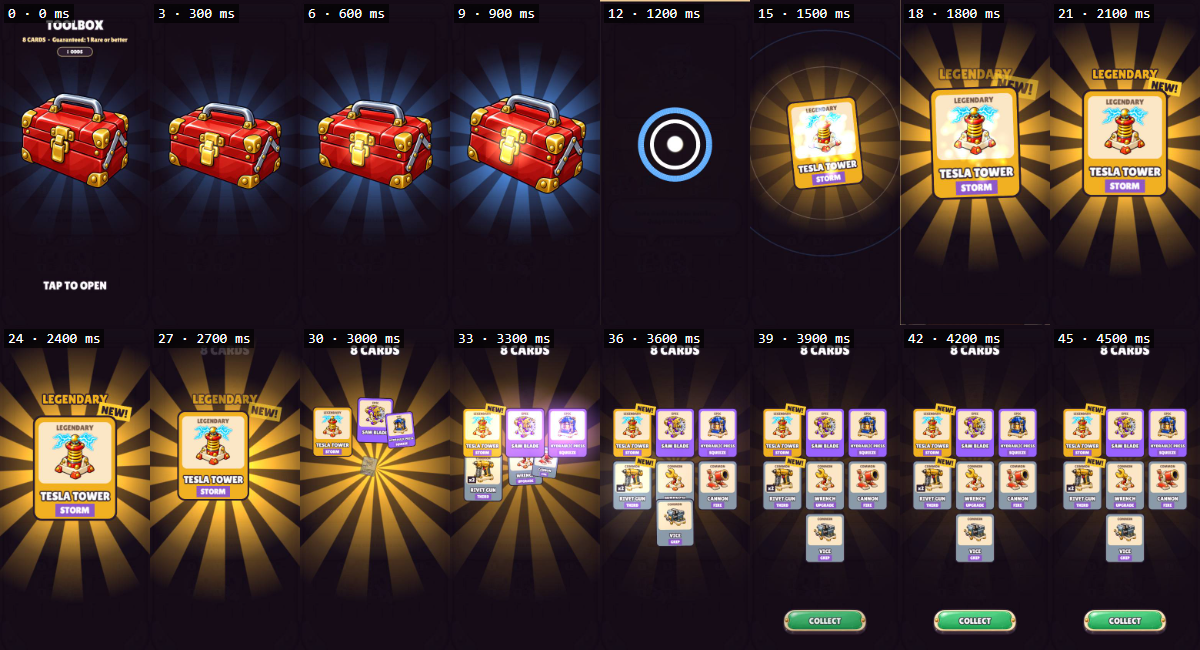
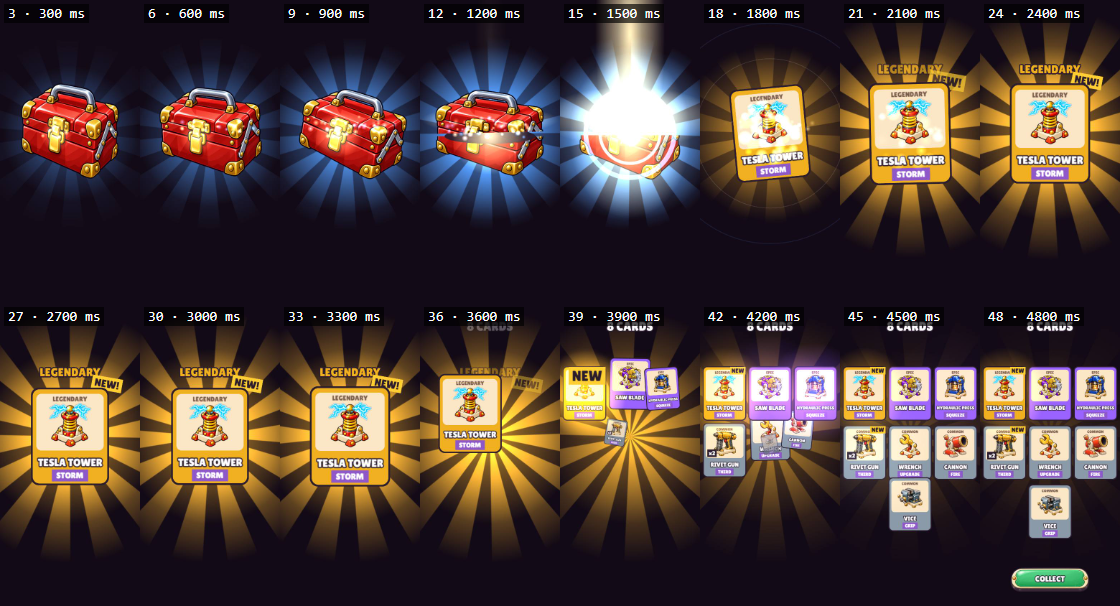
Crate opening V2 review fixes: harder wind-up + rim sparks + charge cue, visible lid pop with light column, bigger grid with inside NEW tags and hero glow, rarity-scaled hero hold + Legendary sting, opaque backdrop; keep contact sheets only

diff --git a/src/game/ui/crateOpenV2.ts b/src/game/ui/crateOpenV2.ts
@@ -47,14 +47,14 @@ export function presentCrateV2(scene: GameScene, kind: CrateKind, cards: CrateCa
   const units = cards.map((cd) => UNITS.find((u) => u.id === cd.unit)!);
   const hero = pickHero(cards.map((cd, i) => ({ rarity: units[i].rarity, isNew: cd.isNew, count: cd.count })));
   const order = summaryOrder(units.map((u) => ({ rarity: u.rarity })), hero); // slot k holds card order[k]
-  const grid = gridLayout3(n, W, 250, H - 270);
+  const grid = gridLayout3(n, W, 235, H - 255);
   const heroRc = RARITY_COLOR[units[hero].rarity], heroTier = TIER[units[hero].rarity];
   let shown: CrateKind = from ?? kind;
 
   // ---- the full-screen stage ----
   const c = scene.add.container(0, 0).setDepth(100);
   scene.modal = c;
-  const dim = scene.add.rectangle(W / 2, H / 2, W, H, 0x120a16, 0.985).setInteractive();
+  const dim = scene.add.rectangle(W / 2, H / 2, W, H, 0x120a16, 1).setInteractive(); // opaque: the game screen underneath must not ghost through
   c.add(dim);
   c.setAlpha(0);
   scene.tweens.add({ targets: c, alpha: 1, duration: 200, ease: 'Quad.Out' });
@@ -80,11 +80,14 @@ export function presentCrateV2(scene: GameScene, kind: CrateKind, cards: CrateCa
   const whole = scene.fitVisible(scene.add.image(0, 0, CRATE[shown].key), CRATE_SIZE);
   const geoOf = (k: CrateKind) => {
     const b = scene.visBounds(CRATE[k].key), s = CRATE_SIZE / Math.max(b.w, b.h);
-    return { lx: (CRATE[k].latch[0] - 0.5) * b.w * s, ly: (CRATE[k].latch[1] - 0.5) * b.h * s };
+    return { lx: (CRATE[k].latch[0] - 0.5) * b.w * s, ly: (CRATE[k].latch[1] - 0.5) * b.h * s, sy: (CRATE[k].seam - 0.5) * b.h * s, b, s };
   };
+  // the pop beat: the picture is cut at the seam; the lid lifts, light shoots out of the mouth (built once, on entering the beat)
+  let lid: Phaser.GameObjects.Container | null = null, mouth: Phaser.GameObjects.Image[] = [], cavity: Phaser.GameObjects.Ellipse | null = null, seamY = 0;
+  const shaft = scene.add.image(0, 0, 'omm_glow').setTint(0xfff2b0).setBlendMode(Phaser.BlendModes.ADD).setAlpha(0);
   const latchGlow = scene.add.image(geoOf(shown).lx, geoOf(shown).ly, 'omm_glow').setTint(0xfff2b0).setBlendMode(Phaser.BlendModes.ADD).setDisplaySize(140, 140).setAlpha(0);
   box.add([whole, latchGlow]);
-  stage.add([rays, glow, box]);
+  stage.add([rays, glow, box, shaft]);
   const tapTxt = scene.add.text(W / 2, H - 190, 'TAP TO OPEN', { fontFamily: FONT, fontSize: '54px', color: '#ffffff', stroke: '#2b1d2e', strokeThickness: 9 }).setOrigin(0.5);
   const tapLoop = scene.tweens.add({ targets: tapTxt, scale: { from: 0.94, to: 1.06 }, duration: 600, yoyo: true, repeat: -1, ease: 'Sine.InOut' });
   const idle = calm ? null : scene.tweens.add({ targets: box, y: { from: 0, to: -12 }, duration: 1000, yoyo: true, repeat: -1, ease: 'Sine.InOut' });
@@ -138,6 +141,19 @@ export function presentCrateV2(scene: GameScene, kind: CrateKind, cards: CrateCa
       scene.tweens.add({ targets: o, r, a: 0, duration: 520, ease: 'Quad.Out', onUpdate: () => g.clear().lineStyle(w * o.a + 1, col, o.a).strokeCircle(0, 0, o.r), onComplete: () => g.destroy() });
     }
   };
+  // rim sparks fly off the crate's top edge while it charges; the rate climbs with the charge (0..1)
+  let sparkDebt = 0, lastDt = 0;
+  const rimSparks = (dt: number, charge: number) => {
+    if (calm) return;
+    sparkDebt += (dt / 1000) * lerp(30, 150, charge);
+    while (sparkDebt >= 1) {
+      sparkDebt -= 1;
+      const sz = Phaser.Math.Between(16, 34), g = geoOf(shown);
+      const img = scene.add.image(W / 2 + Phaser.Math.FloatBetween(-0.42, 0.42) * CRATE_SIZE, HERO_Y + box.y + g.sy + Phaser.Math.Between(-30, 20), 'omm_glow').setBlendMode(Phaser.BlendModes.ADD).setTint(Phaser.Math.RND.pick([0xffffff, 0xfff2b0, CRATE[shown].glow])).setDisplaySize(sz, sz);
+      c.add(img);
+      sparks.push({ img, vx: Phaser.Math.FloatBetween(-120, 120), vy: -Phaser.Math.FloatBetween(240, 560), age: 0, life: Phaser.Math.Between(380, 700) });
+    }
+  };
   const stepSparks = (dt: number) => {
     for (let i = sparks.length - 1; i >= 0; i--) {
       const s = sparks[i];
@@ -188,16 +204,20 @@ export function presentCrateV2(scene: GameScene, kind: CrateKind, cards: CrateCa
       stopTw(tapLoop);
       scene.tweens.add({ targets: [hdr, tapTxt], alpha: 0, duration: 200 });
       box.setPosition(0, 0);
+      sfx.charge?.();
+    } else if (id === 'pop') {
+      once('pop', openLid);
     } else if (id === 'flash') {
       once('flash', () => {
-        box.setVisible(false);
-        stage.setAlpha(0);
         burst();
         sfx.chestOpen?.();
         scene.shake('bomb');
       });
     } else if (id === 'hero') {
-      once('hero', () => sfx.rarityHit(heroTier));
+      once('hero', () => {
+        sfx.rarityHit(heroTier);
+        if (heroTier >= 3) sfx.sting?.();
+      });
     } else if (id === 'gather') {
       scene.tweens.add({ targets: [ribbon, ...(heroNew ? [heroNew] : [])], alpha: 0, duration: 160 });
       hdr.each((o: Phaser.GameObjects.GameObject) => o !== titleTxt && o !== sub && (o as Phaser.GameObjects.Container).setVisible(false)); // the ODDS pill is a closed-crate thing
@@ -210,20 +230,42 @@ export function presentCrateV2(scene: GameScene, kind: CrateKind, cards: CrateCa
     }
   }
 
+  function openLid() {
+    const g = geoOf(shown), key = CRATE[shown].key;
+    seamY = g.sy;
+    const cut = g.b.y + g.b.h * CRATE[shown].seam, srcH = scene.textures.get(key).getSourceImage().height;
+    const mk = (cropY: number, cropH: number) => scene.fitVisible(scene.add.image(0, 0, key), CRATE_SIZE).setCrop(0, cropY, scene.textures.get(key).getSourceImage().width, cropH);
+    whole.setVisible(false);
+    latchGlow.setVisible(false);
+    const lower = mk(cut, srcH - cut), upper = mk(0, cut).setPosition(0, -g.sy);
+    lid = scene.add.container(0, g.sy, [upper]);
+    cavity = scene.add.ellipse(0, g.sy, g.b.w * g.s * 0.84, 84, 0x2b1d2e);
+    const seamGlow = scene.add.image(0, g.sy, 'omm_glow').setTint(0xfff2b0).setBlendMode(Phaser.BlendModes.ADD).setDisplaySize(CRATE_SIZE * 1.25, 150);
+    const beam = scene.add.image(0, g.sy - 90, 'omm_glow').setTint(0xffe9a0).setBlendMode(Phaser.BlendModes.ADD).setDisplaySize(CRATE_SIZE * 0.7, 420);
+    mouth = [seamGlow, beam];
+    box.add([lower, cavity, beam, seamGlow, lid]);
+    shaft.setPosition(0, g.sy - 520);
+    sfx.chestOpen?.();
+  }
+
   const stopTw = (tw: Phaser.Tweens.Tween) => {
     tw.stop();
   };
 
   function applyBeat(id: BeatId, p: number, ms: number) {
     if (id === 'anticipation') {
-      const e = outQuad(p);
-      box.setScale(1 + 0.05 * e, 1 - 0.09 * e).setY(14 * e);
-      glow.setAlpha(lerp(0.35, 0.5, e));
-      latchGlow.setAlpha(0.5 * e);
+      // a hard dip (1 -> 0.85 tall, 1.1 wide) over the first 60 %, then a recoil up and slightly tall to wind the spring
+      const d = outQuad(clamp01(p / 0.6)), r = outBack(clamp01((p - 0.6) / 0.4));
+      const sx = p < 0.6 ? lerp(1, 1.1, d) : lerp(1.1, 0.97, r), sy = p < 0.6 ? lerp(1, 0.85, d) : lerp(0.85, 1.06, r), y = p < 0.6 ? 24 * d : lerp(24, -10, r);
+      box.setScale(sx, sy).setY(y);
+      glow.setAlpha(lerp(0.35, 0.55, outQuad(p)));
+      latchGlow.setAlpha(0.7 * outQuad(p)).setDisplaySize(lerp(100, 180, p), lerp(100, 180, p));
+      rimSparks(lastDt, p * 0.3);
     } else if (id === 'shake') {
       const amp = lerp(OPEN_V2.shakeDeg[0], OPEN_V2.shakeDeg[1], p * p);
       const ph = Math.PI * 2 * (2 * p + 5 * p * p);
-      box.setAngle(calm ? 0 : amp * Math.sin(ph)).setScale(lerp(1.05, 1.1, p), lerp(0.91, 1.08, p)).setPosition(calm ? 0 : amp * 1.4 * Math.sin(ph * 1.3), lerp(14, -6, p));
+      box.setAngle(calm ? 0 : amp * Math.sin(ph)).setScale(lerp(0.97, 1.08, p), lerp(1.06, 0.92, p)).setPosition(calm ? 0 : amp * 1.8 * Math.sin(ph * 1.3), lerp(-10, 6, p));
+      rimSparks(lastDt, 0.3 + 0.7 * p);
       glow.setAlpha(lerp(0.5, 1, p)).setDisplaySize(lerp(700, 900, p), lerp(700, 900, p));
       rays.setAlpha(lerp(0.18, 0.75, p));
       latchGlow.setAlpha(lerp(0.5, 1, p)).setDisplaySize(lerp(140, 300, p), lerp(140, 300, p));
@@ -236,8 +278,20 @@ export function presentCrateV2(scene: GameScene, kind: CrateKind, cards: CrateCa
         }
       }
       if (from && shown !== kind && p >= 0.55) once('swap', swapToKind);
+    } else if (id === 'pop') {
+      // the lid flies up and tilts, a column of light stands out of the mouth, the body springs back from its squash
+      const e = outBack(p);
+      box.setAngle(0).setPosition(0, lerp(6, 0, p)).setScale(lerp(1.08, 1, e), lerp(0.92, 1.04, outQuad(p)));
+      lid?.setPosition(0, seamY - 170 * e).setAngle(-28 * outQuad(p)).setAlpha(1 - clamp01((p - 0.7) / 0.3));
+      cavity?.setAlpha(1 - p);
+      mouth.forEach((m, i) => m.setAlpha(1).setDisplaySize(CRATE_SIZE * (i ? 1.25 + p * 0.5 : 0.7 + p * 0.5), i ? 150 + p * 150 : 420 + p * 400));
+      shaft.setAlpha(clamp01(p * 3)).setDisplaySize(lerp(160, 360, p), lerp(500, 1500, outQuad(p)));
+      glow.setAlpha(lerp(1, 1.4, p));
+      rays.setAlpha(lerp(0.75, 1, p));
+      rimSparks(lastDt, 1);
     } else if (id === 'flash') {
       flashRect.setAlpha(p < 0.4 ? 1 : 1 - (p - 0.4) / 0.6);
+      if (p >= 0.3) once('hideCrate', () => (box.setVisible(false), stage.setAlpha(0)));
       heroGlow.setAlpha(0.6 * p);
     } else if (id === 'hero') {
       const card = built[hero].card, e = outBack(p);
@@ -276,11 +330,17 @@ export function presentCrateV2(scene: GameScene, kind: CrateKind, cards: CrateCa
     b.card.setPosition(slot.x, slot.y).setScale(grid.scale).setAngle(0).setAlpha(1);
     const hot = cd.isNew || b.tier >= 1;
     if (hot) pingAt(slot.x, slot.y, b.rc, grid.cw * 1.9);
+    if (ci === hero) {
+      // the best card stays findable: a standing rarity glow behind its slot
+      const hg = scene.add.image(slot.x, slot.y, 'omm_glow').setTint(heroRc).setBlendMode(Phaser.BlendModes.ADD).setDisplaySize(grid.cw * 1.9, grid.ch * 1.7).setAlpha(0.75);
+      c.add(hg);
+      c.moveTo(hg, c.getIndex(b.card));
+    }
     if (b.tier >= 1) sfx.rarityHit(b.tier);
     else sfx.star?.(Math.min(2, k));
     if (!calm) scene.tweens.add({ targets: b.card, scale: { from: grid.scale * 1.1, to: grid.scale }, duration: 160, ease: 'Back.Out' });
     if (cd.isNew) {
-      const st = scene.add.text(slot.x + grid.cw * 0.33, slot.y - grid.ch * 0.47, 'NEW!', { fontFamily: FONT, fontSize: `${Math.round(30 * grid.scale)}px`, color: '#2b1d2e', backgroundColor: '#ffcf33', padding: { x: 9, y: 2 } }).setOrigin(0.5).setAngle(10);
+      const st = scene.add.text(slot.x + grid.cw / 2 - 4, slot.y - grid.ch / 2 + 4, 'NEW', { fontFamily: FONT, fontSize: `${Math.round(24 * grid.scale)}px`, color: '#2b1d2e', backgroundColor: '#ffcf33', padding: { x: 7, y: 1 } }).setOrigin(1, 0); // inside the card's top-right corner
       c.add(st);
       if (!calm) scene.tweens.add({ targets: st, scale: { from: 2.4, to: 1 }, duration: 170, ease: 'Quad.In' });
     }
@@ -314,9 +374,10 @@ export function presentCrateV2(scene: GameScene, kind: CrateKind, cards: CrateCa
     if (!calm) heroRays.angle += dt * 0.012;
     stepSparks(dt);
     if (state !== 'running') return;
+    lastDt = dt;
     const id = BEATS[bi];
     el += dt * (sped[id] && OPEN_V2.speedable[id] ? OPEN_V2.tapSpeed : 1);
-    const dur = beatDuration(id, n);
+    const dur = beatDuration(id, n, false, units[hero].rarity);
     applyBeat(id, clamp01(el / dur), el);
     if (el >= dur) {
       applyBeat(id, 1, dur);

diff --git a/src/content/crateOpenV2.ts b/src/content/crateOpenV2.ts
@@ -3,49 +3,51 @@
 import type { Rarity } from './units';
 
 /** Beats in play order. */
-export const BEATS = ['anticipation', 'shake', 'flash', 'hero', 'heroHold', 'gather', 'settle'] as const;
+export const BEATS = ['anticipation', 'shake', 'pop', 'flash', 'hero', 'heroHold', 'gather', 'settle'] as const;
 export type BeatId = (typeof BEATS)[number];
 
 /** The one config table (ms). `gather` is per card: the beat lasts (cards - 1) * gatherStagger + gatherFly. */
 export const OPEN_V2 = {
   anticipation: 400, // crate squashes down and winds up, glow wakes
   shake: 800, // rising shake, glow + rays charge, pitch climbs
+  pop: 260, // the lid lifts off and light shoots out of the seam while the crate is still on screen
   flash: 150, // white flash + particle burst, the crate is gone
   hero: 600, // the best reward pops in big and centred with rarity rays (never shortened)
-  heroHold: 700, // hero rests so it can be read; a tap shortens it
+  /** Hero rest by rarity (ms): the better the card, the longer it is held. A tap shortens it. */
+  heroHoldByRarity: { common: 400, rare: 600, epic: 900, legendary: 1300 } as Record<Rarity, number>,
   gatherStagger: 110, // gap between cards leaving for the grid
   gatherFly: 380, // one card's flight into its slot
   settle: 250, // COLLECT fades in
   tapSpeed: 3, // a tap runs the current (speedable) beat this many times faster
   /** Beats a tap may speed. The hero pop is deliberately NOT one of them: it can never be skipped or shortened. */
-  speedable: { anticipation: true, shake: true, flash: false, hero: false, heroHold: true, gather: true, settle: false } as Record<BeatId, boolean>,
+  speedable: { anticipation: true, shake: true, pop: false, flash: false, hero: false, heroHold: true, gather: true, settle: false } as Record<BeatId, boolean>,
   /** Cue points (fraction of the beat) for sound; the presentation fires them once. */
   shakeTicks: 6, // chestShake knocks across the shake beat, pitch climbs
   /** Max shake angle (deg) at the end of the shake beat, and the start angle. */
-  shakeDeg: [2, 10] as [number, number],
+  shakeDeg: [4, 13] as [number, number],
   burstSparks: 44,
-  grid: { cols: 3, gap: 14, margin: 60 },
+  grid: { cols: 3, gap: 10, rowGap: 24, margin: 14, maxScale: 1.45 },
 } as const;
 
 /** Duration of one beat in ms for `cards` cards in total. `sped` = the player tapped during it. */
-export function beatDuration(id: BeatId, cards: number, sped = false): number {
-  const base = id === 'gather' ? Math.max(0, cards - 1) * OPEN_V2.gatherStagger + OPEN_V2.gatherFly : OPEN_V2[id];
+export function beatDuration(id: BeatId, cards: number, sped = false, hero: Rarity = 'rare'): number {
+  const base = id === 'gather' ? Math.max(0, cards - 1) * OPEN_V2.gatherStagger + OPEN_V2.gatherFly : id === 'heroHold' ? OPEN_V2.heroHoldByRarity[hero] : OPEN_V2[id];
   return sped && OPEN_V2.speedable[id] ? base / OPEN_V2.tapSpeed : base;
 }
 
 /** Start time of every beat (ms after the tap) given which beats were sped. */
-export function beatStarts(cards: number, sped: Partial<Record<BeatId, boolean>> = {}): Record<BeatId, number> {
+export function beatStarts(cards: number, sped: Partial<Record<BeatId, boolean>> = {}, hero: Rarity = 'rare'): Record<BeatId, number> {
   const out = {} as Record<BeatId, number>;
   let t = 0;
   for (const id of BEATS) {
     out[id] = t;
-    t += beatDuration(id, cards, !!sped[id]);
+    t += beatDuration(id, cards, !!sped[id], hero);
   }
   return out;
 }
 
-export const totalMs = (cards: number, sped: Partial<Record<BeatId, boolean>> = {}) => {
-  const s = beatStarts(cards, sped);
+export const totalMs = (cards: number, sped: Partial<Record<BeatId, boolean>> = {}, hero: Rarity = 'rare') => {
+  const s = beatStarts(cards, sped, hero);
   return s.settle + beatDuration('settle', cards);
 };
 
@@ -74,18 +76,18 @@ export interface GridSlot {
 }
 /** A neat 3-column grid of `n` cards (last row centred) that fits between `top` and `bottom`; `scale` is relative to a 176 x 220 card. */
 export function gridLayout3(n: number, W: number, top: number, bottom: number): { slots: GridSlot[]; scale: number; cw: number; ch: number } {
-  const { cols, gap, margin } = OPEN_V2.grid;
+  const { cols, gap, rowGap, margin } = OPEN_V2.grid;
   const rows = Math.max(1, Math.ceil(n / cols));
   const maxW = (W - margin * 2 - gap * (cols - 1)) / cols;
-  const fitH = ((bottom - top - gap * (rows - 1)) / rows) / 220;
-  const scale = Math.min(maxW / 176, fitH, 1.1);
+  const fitH = ((bottom - top - rowGap * (rows - 1)) / rows) / 220;
+  const scale = Math.min(maxW / 176, fitH, OPEN_V2.grid.maxScale);
   const cw = 176 * scale, ch = 220 * scale;
-  const gridH = rows * ch + (rows - 1) * gap;
+  const gridH = rows * ch + (rows - 1) * rowGap;
   const y0 = top + (bottom - top - gridH) / 2;
   const slots: GridSlot[] = [];
   for (let k = 0; k < n; k++) {
     const r = Math.floor(k / cols), inRow = Math.min(cols, n - r * cols);
-    slots.push({ x: W / 2 + ((k % cols) - (inRow - 1) / 2) * (cw + gap), y: y0 + r * (ch + gap) + ch / 2 });
+    slots.push({ x: W / 2 + ((k % cols) - (inRow - 1) / 2) * (cw + gap), y: y0 + r * (ch + rowGap) + ch / 2 });
   }
   return { slots, scale, cw, ch };
 }

diff --git a/tests/crateOpenV2.test.ts b/tests/crateOpenV2.test.ts
@@ -13,12 +13,27 @@ describe('crateOpenV2 timing table', () => {
     const s = beatStarts(7);
     expect(s.anticipation).toBe(0);
     expect(s.shake).toBe(400);
-    expect(s.flash).toBe(1200);
-    expect(s.hero).toBe(1350);
-    expect(s.heroHold).toBe(1950);
-    expect(s.gather).toBe(2650);
+    expect(s.pop).toBe(1200);
+    expect(s.flash).toBe(1460);
+    expect(s.hero).toBe(1610);
+    expect(s.heroHold).toBe(2210);
+    expect(s.gather).toBe(2210 + OPEN_V2.heroHoldByRarity.rare);
     expect(totalMs(7)).toBe(s.settle + OPEN_V2.settle);
     expect(beatDuration('gather', 7)).toBe(6 * OPEN_V2.gatherStagger + OPEN_V2.gatherFly);
+  });
+  it('the hero hold scales with rarity (400 / 600 / 900 / 1300 ms) and a tap still shortens it', () => {
+    expect(OPEN_V2.heroHoldByRarity).toEqual({ common: 400, rare: 600, epic: 900, legendary: 1300 });
+    const holds = (['common', 'rare', 'epic', 'legendary'] as const).map((r) => beatDuration('heroHold', 7, false, r));
+    expect(holds).toEqual([400, 600, 900, 1300]);
+    expect(totalMs(7, {}, 'legendary') - totalMs(7, {}, 'common')).toBe(900);
+    expect(beatDuration('heroHold', 7, true, 'legendary')).toBeCloseTo(1300 / OPEN_V2.tapSpeed, 5);
+  });
+  it('the crate visibly opens: a pop beat sits between the shake and the flash and a tap cannot skip it', () => {
+    expect(BEATS.indexOf('pop')).toBe(BEATS.indexOf('shake') + 1);
+    expect(BEATS.indexOf('flash')).toBe(BEATS.indexOf('pop') + 1);
+    expect(OPEN_V2.pop).toBeGreaterThanOrEqual(200);
+    expect(OPEN_V2.speedable.pop).toBe(false);
+    expect(OPEN_V2.shakeDeg[1]).toBeGreaterThanOrEqual(12);
   });
   it('a tap speeds anticipation / shake / hold / gather but NEVER the hero pop (or the flash)', () => {
     for (const id of BEATS) {

diff --git a/src/game/audio.ts b/src/game/audio.ts
@@ -132,6 +132,16 @@ export const sfx = {
     if (t >= 2) bandNoise(0.2, 0.05, 0, 5200, 1);
     if (t >= 3) tone(110, 0.35, 'triangle', 0.16, 0, 60, true);
   },
+  /** Crate opening V2 anticipation: a low thunk and a rising whine (the wind-up beat). */
+  charge: () => {
+    tone(90, 0.18, 'sine', 0.14, 0, 55, true);
+    tone(220, 0.5, 'sawtooth', 0.025, 0.05, 700, true);
+  },
+  /** Crate opening V2, Legendary hero only: a bright chord over a deep boom. */
+  sting: () => {
+    [523, 659, 784, 1047].forEach((f, i) => tone(f, 0.5, 'triangle', 0.06, 0.08 + i * 0.06, undefined, true));
+    tone(70, 0.5, 'sine', 0.2, 0, 40, true);
+  },
   chestOpen: () => {
     bandNoise(0.22, 0.05, 0, 900, 1.2);
     tone(260, 0.2, 'sawtooth', 0.02, 0, 160);

diff --git a/docs/art/CRATE_OPENING_V2.md b/docs/art/CRATE_OPENING_V2.md
@@ -25,15 +25,16 @@ Versus TEARDOWN/ART_BIBLE 6.7 (anticipation beat, rising shake 600-900 ms, flash
 
 Dark full-screen stage (rarity glow and rays use additive blending so they glow), then, in ms after the tap:
 
-1. anticipation 400: crate squashes and winds up, header fades, latch glow wakes.
-2. shake 800: angle 2 -> 10 deg with rising frequency, glow and rays charge, 6 knocks with climbing pitch, camera shake from the 4th.
-3. flash 150: white flash (held ~60 ms), 44 additive sparks + two rings, crate gone, `chestOpen` cue.
-4. hero 600: the single best card (rarity, then NEW, then copies) pops in at 2.3x, centred, back-out, with rarity-tinted rotating rays, rarity word and NEW tag; `rarityHit(tier)` cue.
-5. heroHold 700: rests so it can be read.
-6. gather: hero shrinks into slot 1 and the others (best first) fly in 110 ms apart into a 3-column grid, last row centred; landing glow + cue per rarity.
-7. settle 250: one green COLLECT button (goes back to the level flow, the next crate, or the units tab).
+1. anticipation 400: a hard dip to 0.85 tall / 1.1 wide, then a recoil up (0.97 x 1.06); header fades, growing latch glow, rim sparks, `charge` cue (thunk + rising whine).
+2. shake 800: angle 4 -> 13 deg with rising frequency, glow and rays charge, rim sparks climb from 30 to 150 per second, 6 knocks with climbing pitch, camera shake from the 4th.
+3. pop 260 (new, not speedable): the picture is cut at the seam, the lid flies up and tilts, a dark mouth, seam glow and a column of light shoot out while the crate is still on screen; `chestOpen` cue.
+4. flash 150: white flash, crate hidden at 30 % of the beat, 44 additive sparks + two rings.
+5. hero 600: the single best card (rarity, then NEW, then copies) pops in at 2.3x, centred, back-out, with rarity-tinted rotating rays, rarity word and NEW tag; `rarityHit(tier)` cue, plus a `sting` for Legendary only.
+6. heroHold by rarity: common 400, rare 600, epic 900, legendary 1300 ms (`OPEN_V2.heroHoldByRarity`).
+7. gather: hero shrinks into slot 1 and the others (best first) fly in 110 ms apart into a 3-column grid (margin 14, gap 10, row gap 24, scale up to 1.45, about 1.25 on a phone), last row centred, NEW tag inside the card's top-right corner, a standing rarity glow behind the hero's slot; landing glow + cue per rarity.
+8. settle 250: one green COLLECT button (goes back to the level flow, the next crate, or the units tab).
 
-Tap anywhere speeds the current beat 3x (anticipation, shake, hold, gather); the flash and hero pop are not speedable (`OPEN_V2.speedable`), so the hero is always seen. Verified with extra taps in `tools/crate-frames.mjs` (`TAPS=200,1500,...`). Simulation is untouched; it is presentation only, the crate result is decided before the screen is built.
+The backdrop is fully opaque (alpha 1), so no ghost text from the game screen shows through. Tap anywhere speeds the current beat 3x (anticipation, shake, hold, gather); the pop, flash and hero pop are not speedable (`OPEN_V2.speedable`), so the hero is always seen. Verified with extra taps in `tools/crate-frames.mjs` (`TAPS=200,1500,...`). Simulation is untouched; it is presentation only, the crate result is decided before the screen is built.
 
 ## 3. Self-critique against the ART_BIBLE section 11 / 20-point bar
 
@@ -41,4 +42,10 @@ Scored honestly 0-1 per point (0.5 = partly):
 
 1. Reads in under a second what is happening: 1. 2. One hero per moment: 1. 3. Anticipation beat: 1. 4. Rising shake intensity: 1. 5. Flash + burst: 0.5 (the burst is code sparks; no lid/debris art). 6. Rarity colour in rays: 1. 7. Hero big and centred: 1. 8. Slow card flip or pop: 0.5 (pop only; no flip). 9. Rarer = longer pause: 0.5 (same 600 + 700 for every tier; only ray strength and sound scale). 10. Summary grid neat: 1. 11. One clear primary button: 1. 12. Buttons last: 1. 13. Skippable without losing the reward: 1. 14. Timing within +-20% of the brief: 1. 15. Light top-left / one style: 0.5 (rays are radial, no directional light). 16. Corner/outline family kept: 1 (cards reuse `buildCard`). 17. Sound cue points: 0.5 (existing cues only, no dedicated hero sting). 18. Duplicates fly to a pill: 0 (not built; counts stay as x2). 19. Reduced-motion path: 0.5 (implemented, not frame-checked). 20. Phone-ready: 0.5 (390x844 checked, 360x640 not).
 
-Total about 14.5 / 20. Known weaknesses: the crate never visibly opens (the flash covers it, no lid art), the summary cards are width-limited to about 1.1x so the grid sits small with air above the button, NEW tags overlap neighbours slightly, hero hold is the same for a Common hero as a Legendary one, and the old ODDS pill is only on the closed screen. Next steps would be a rarity-scaled hold, a card back and flip using code art, and the duplicate-to-currency fly.
+### Re-score after the review fixes (frames re-captured at 390x844, 360x640 and reduced motion; contact sheet `art-candidates/crate-open-v2/contact_sheet_after_16.png`, 360x640 frames `after_360x640_*.jpg`)
+
+Changes: 5 (flash + burst) 0.5 -> 1 (the lid visibly lifts with a light column before the flash); 4 and 3 stay 1 but now read at a glance (frame 2 flat and wide, frame 4 tall, frame 8 tilted with rim sparks); 9 (rarer = longer pause) 0.5 -> 1 (400 / 600 / 900 / 1300 ms, tested); 10 stays 1 with a larger grid (about 118 px cards on a 390 phone instead of 103, 22 px less empty space, hero glow, NEW inside the corner); 17 (sound) 0.5 -> 1 (`charge` on the anticipation, `sting` for Legendary); 19 reduced motion 0.5 -> 1 (frame-checked: no tilt or rim sparks, lid still lifts); 20 phone-ready 0.5 -> 1 (360x640 checked, all cards and COLLECT fit). Still weak: 8 (pop only, no flip) 0.5, 15 (radial rays, no directional light) 0.5, 18 (duplicates do not fly to a pill) 0.
+
+New total about 17.5 / 20 (sum of the points above: 20 minus 0.5 minus 0.5 minus 1 = 18; scored down half a point for the wind-up still being subtle at thumbnail size, so 17.5).
+
+Original score and weaknesses, kept for the record: total about 14.5 / 20. Known weaknesses: the crate never visibly opens (the flash covers it, no lid art), the summary cards are width-limited to about 1.1x so the grid sits small with air above the button, NEW tags overlap neighbours slightly, hero hold is the same for a Common hero as a Legendary one, and the old ODDS pill is only on the closed screen. Next steps would be a rarity-scaled hold, a card back and flip using code art, and the duplicate-to-currency fly.
